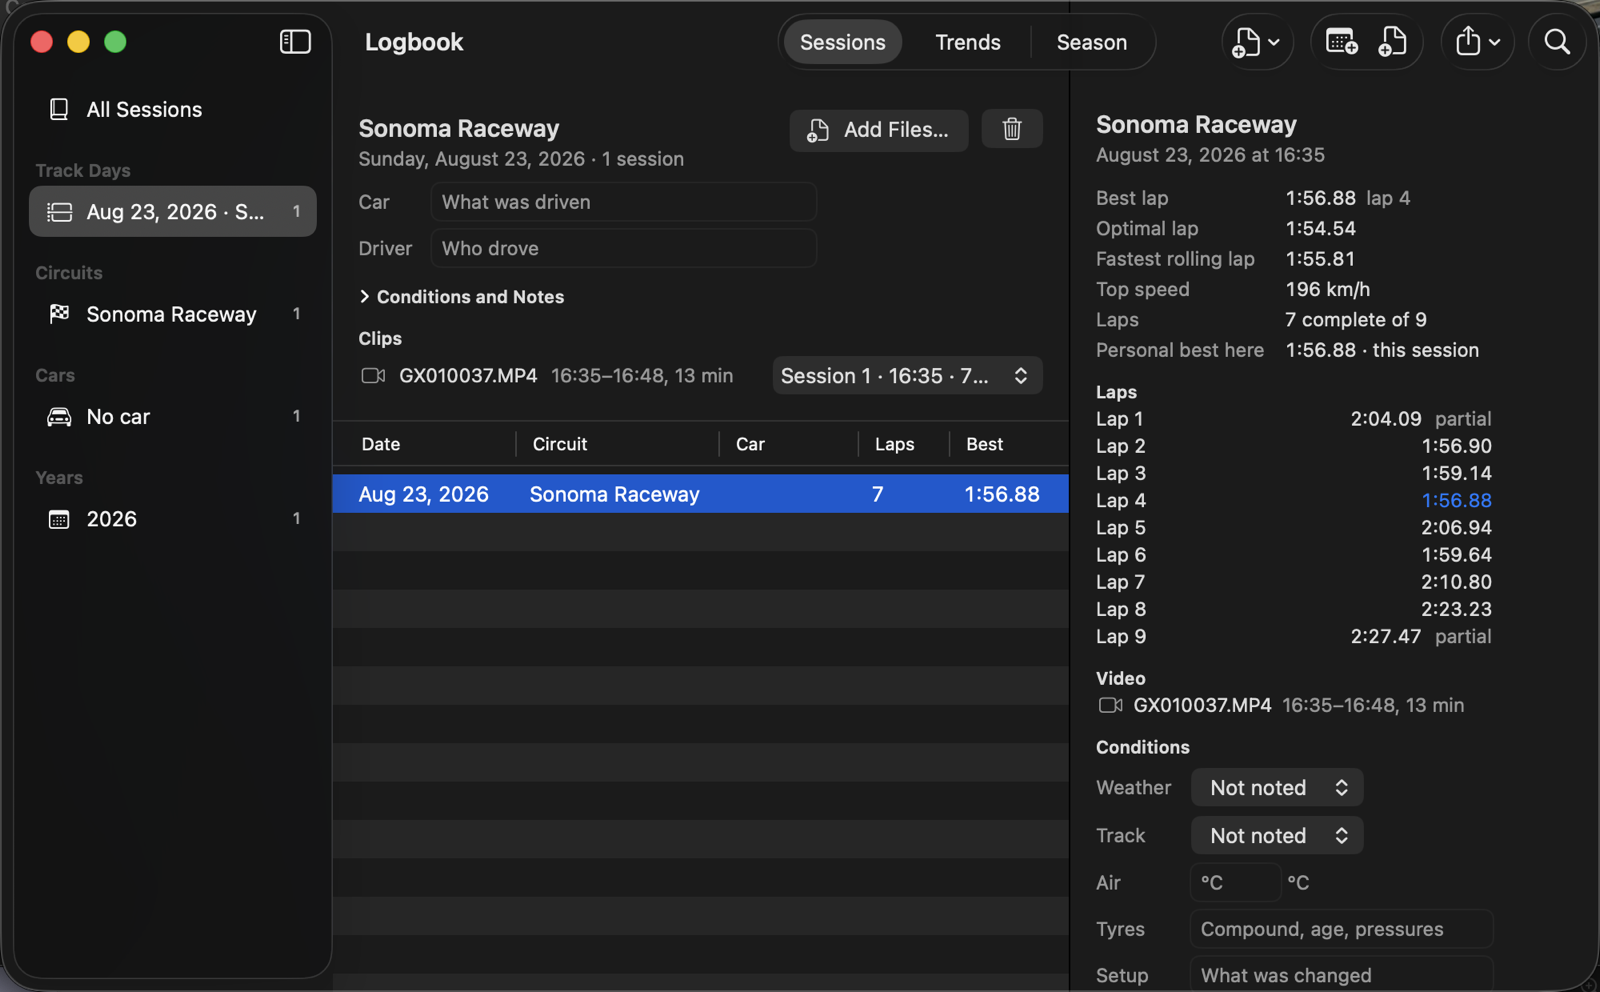
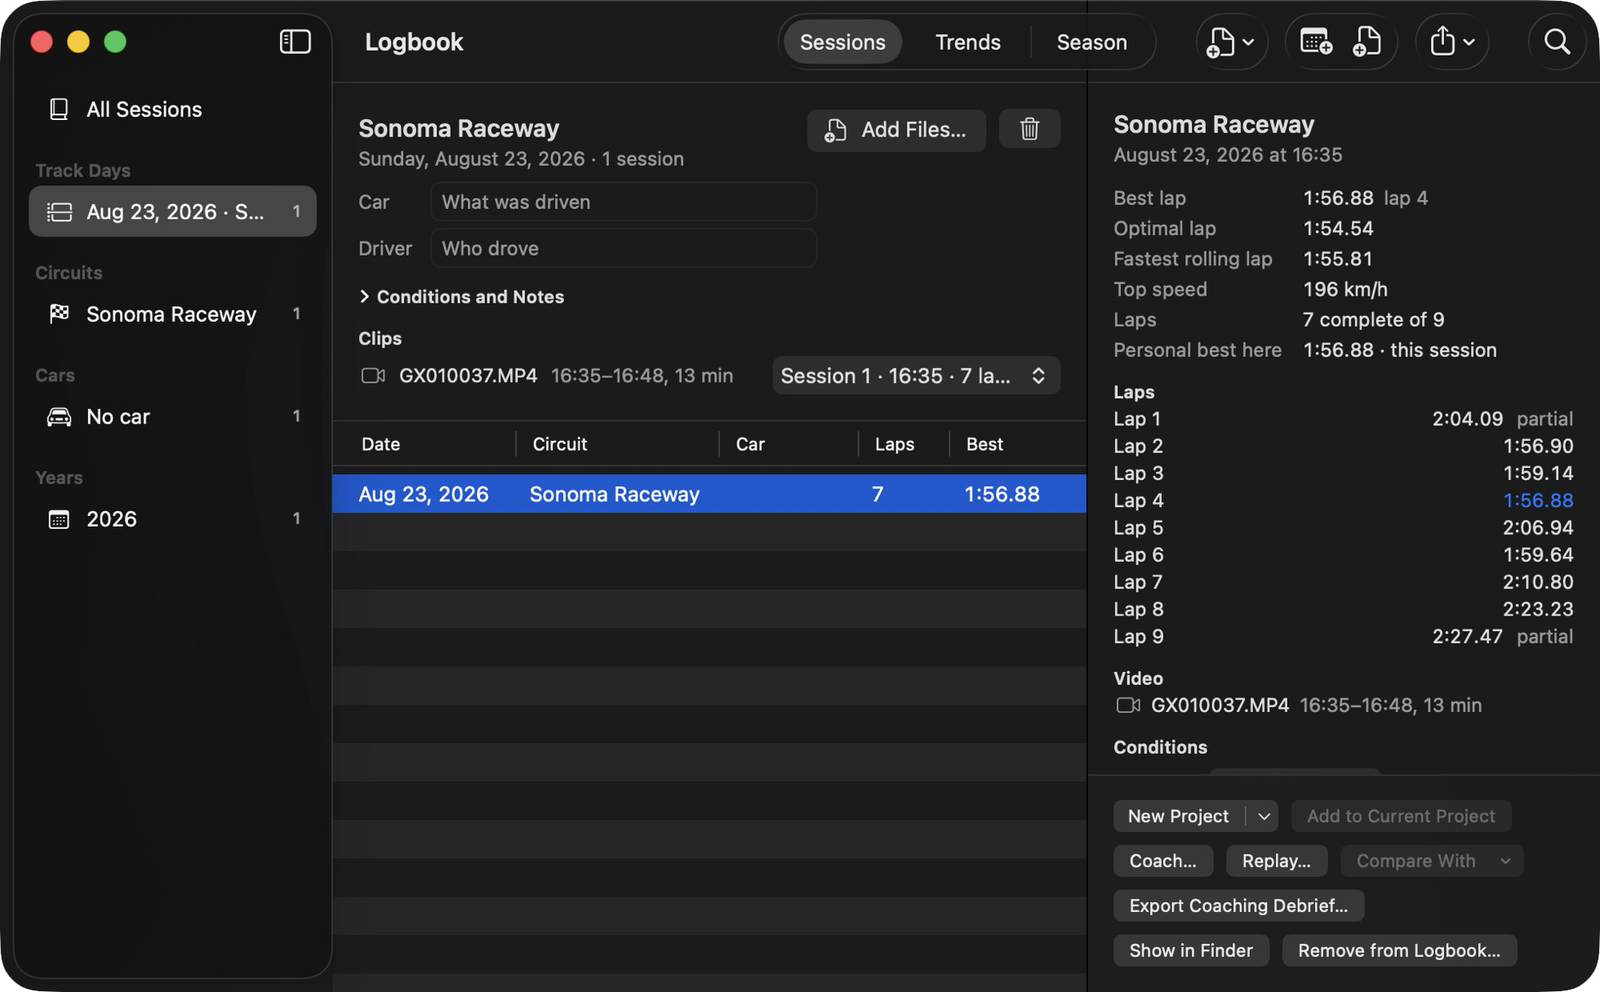
docs: the guide's Logbook picture shows the session's actions under its detail (#471)
The first picture in the user guide showed the Logbook as it was before #469:
a session selected, none of its buttons in view, and an empty strip down the
window's right edge. It is the same day and the same session now, in the
window as it is: the detail filling its side, the eight actions under it.

Taken at the default 1000 x 620 pt, as the picture it replaces was, from the
two files of the project the guide's pictures come from. Not with
Scripts/screenshots.sh, which opens the Logbook at whatever window frame the
preferences hold. The alternative text says what the picture now shows.

docs/logbook.md: the note on the split view says that both panes sat at their
minimum widths at the default window size; in a wider window the table took
the extra width.

Closes #470.

diff --git a/docs/logbook.md b/docs/logbook.md
@@ -273,12 +273,13 @@ up once it appears. It is disabled until the session has a clip on its day, with
 saying why.
 
 The detail is a pane of the window's own `HSplitView`, beside the `NavigationSplitView`, as the
-editor's inspector is (#448). Inside the detail column a split view gave the table and the detail
-their minimum widths and left the rest of the column empty, whatever their ideal widths and
-layout priorities said, so the buttons had 248 points between them. They are in `FlowLayout` rows
-in a `safeAreaInset` under the scrolling detail: a button that does not fit starts another row, and
-none of them scrolls out of view. **New Project** is one `Menu` with a `primaryAction` — a split
-button — in place of a button and an icon-only menu beside it.
+editor's inspector is (#448). Inside the detail column, at the default window size, a split view
+gave the table and the detail their minimum widths and left the rest of the column empty, whatever
+their ideal widths and layout priorities said, so the buttons had 248 points between them. In a
+wider window the table took the extra width and the detail stayed at its minimum, never its ideal.
+The buttons are in `FlowLayout` rows in a `safeAreaInset` under the scrolling detail: one that does
+not fit starts another row, and none of them scrolls out of view. **New Project** is one `Menu`
+with a `primaryAction` — a split button — in place of a button and an icon-only menu beside it.
 
 ## On the command line (#398)
 

diff --git a/docs/user-guide.md b/docs/user-guide.md
@@ -7,7 +7,7 @@ and, ideally, a data log.
 
 ## 1. Your first overlay in five minutes
 
-![The Logbook at launch: track days in the sidebar, a day's sessions in the table with its header above, and the New Project menu in the toolbar](images/logbook.png)
+![The Logbook at launch: track days in the sidebar, a day's sessions in the table with its header above, the selected session's laps with what can be done with it underneath, and the New Project menu in the toolbar](images/logbook.png)
 
 1. **Launch Onboard Studio.** The **Logbook** opens: every track day you have driven, with its
    sessions and clips, and the way into the work. **New Track Day…** begins a day (the date, the
